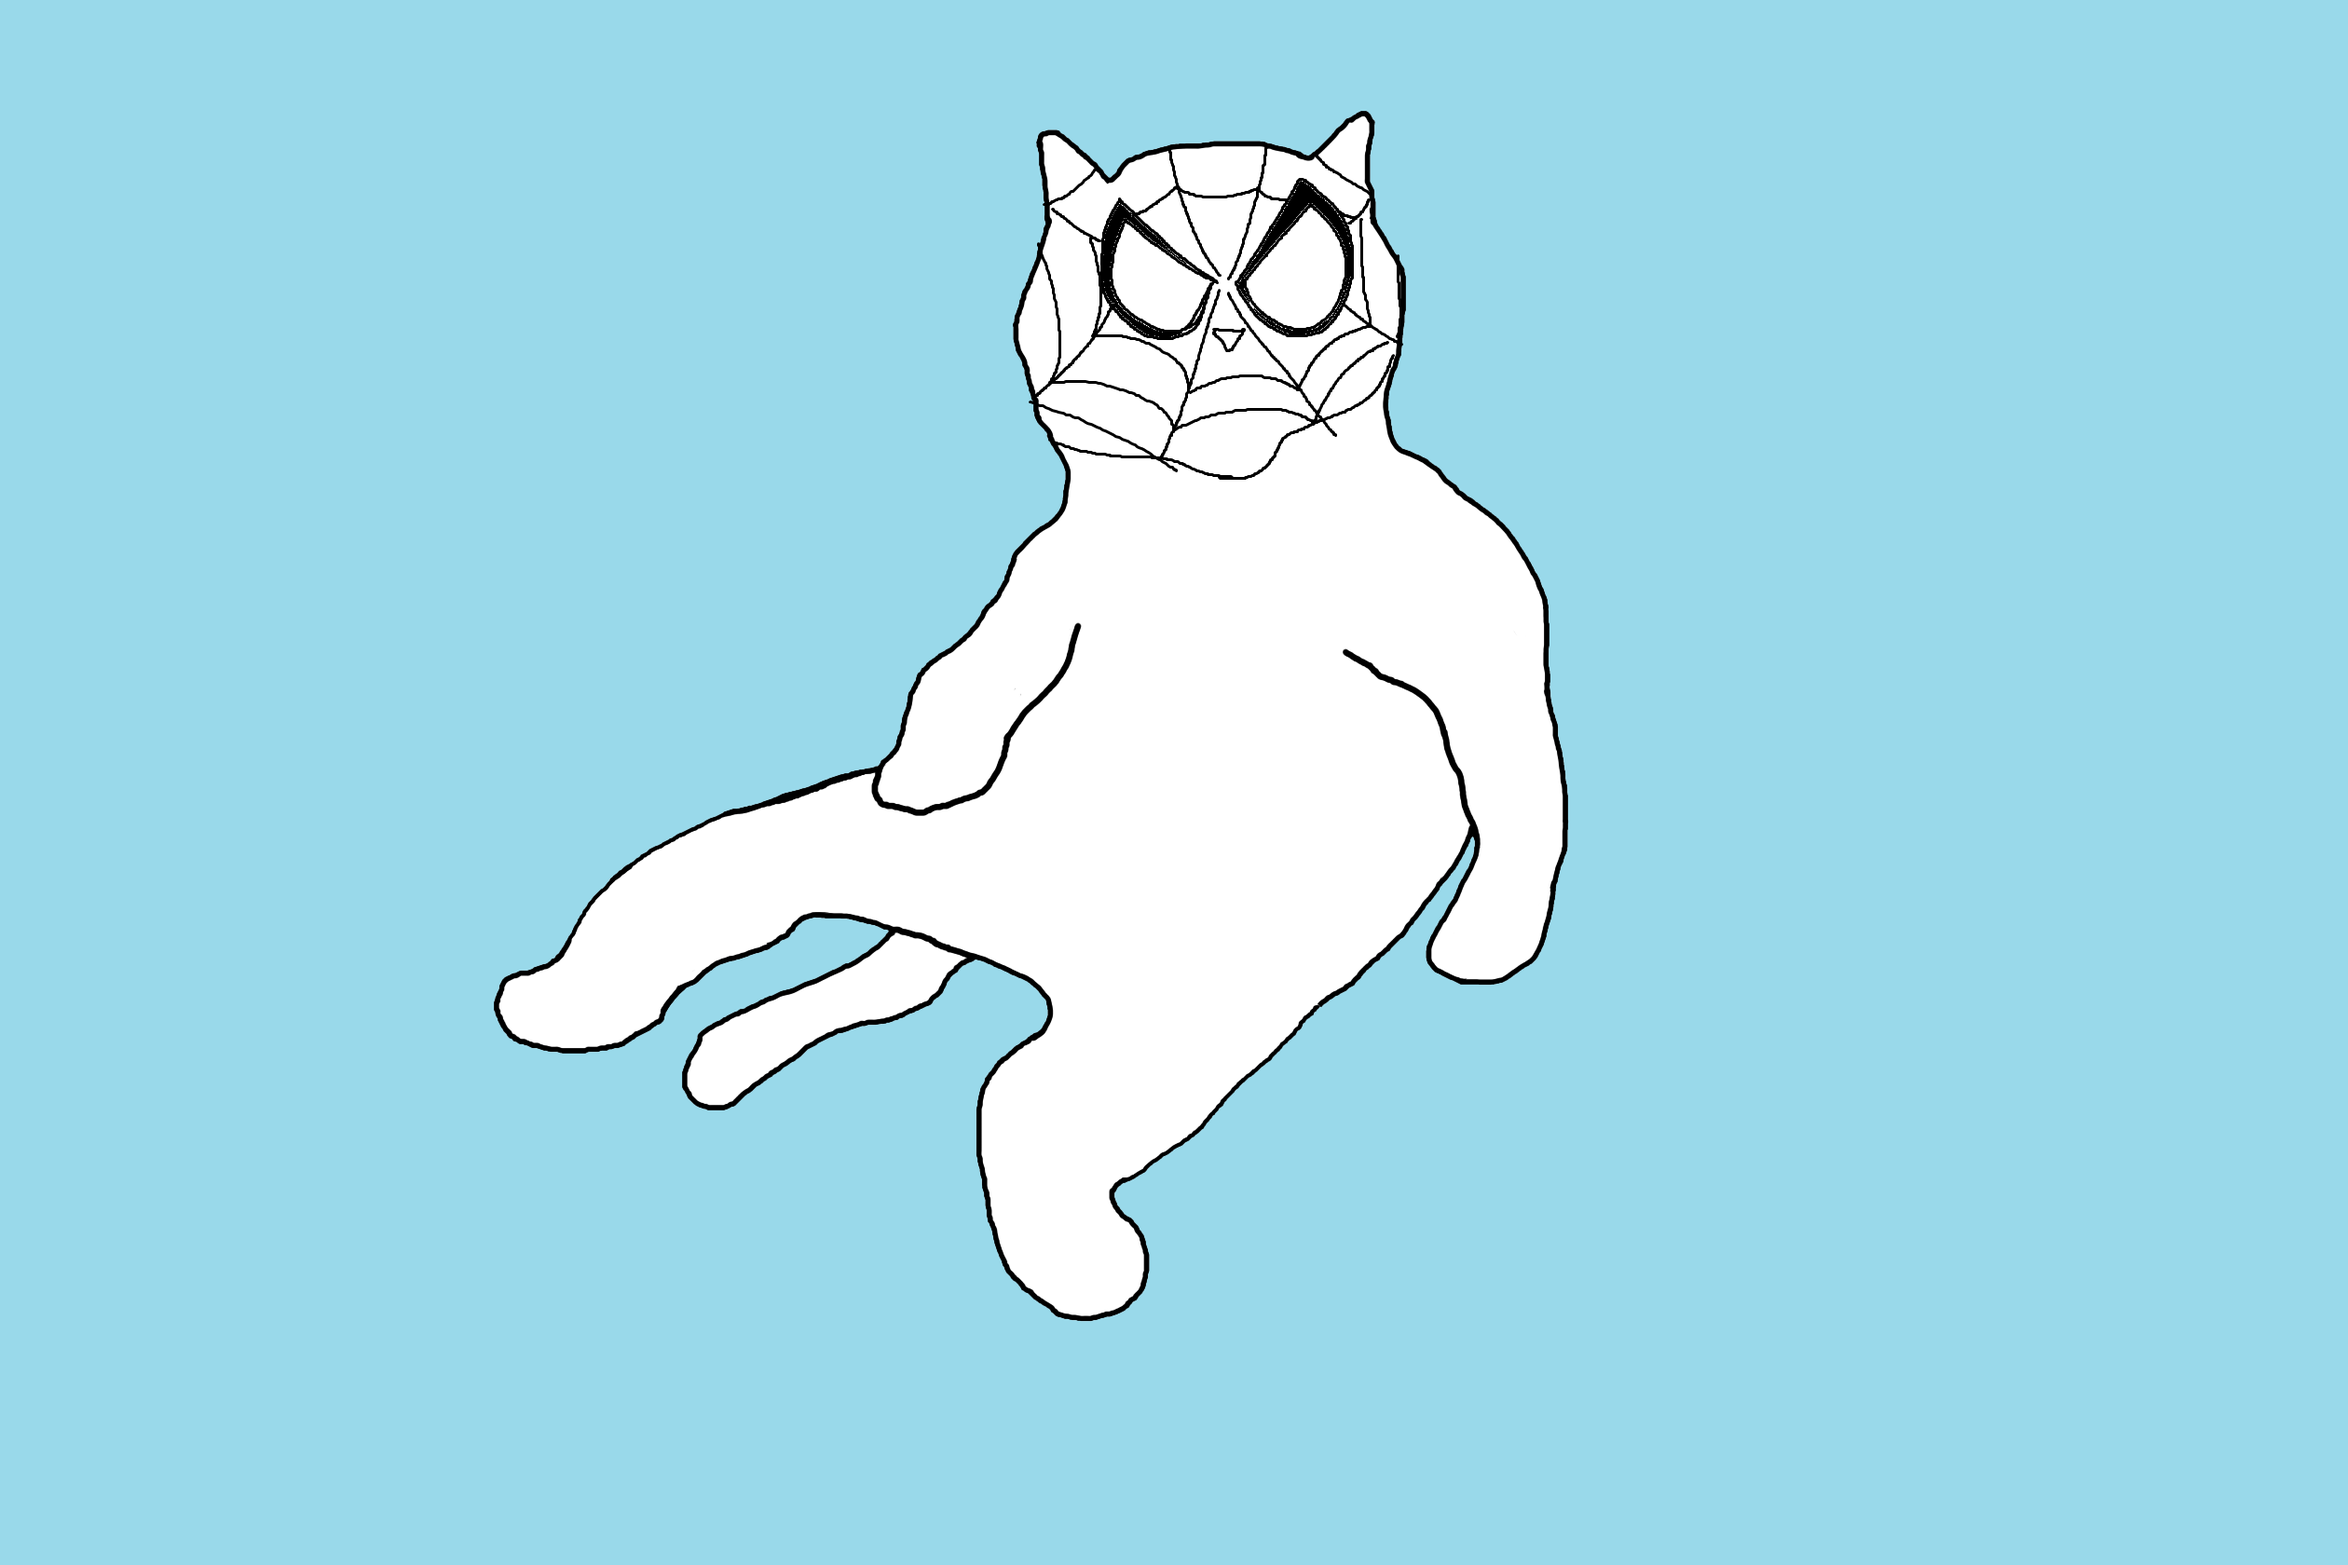
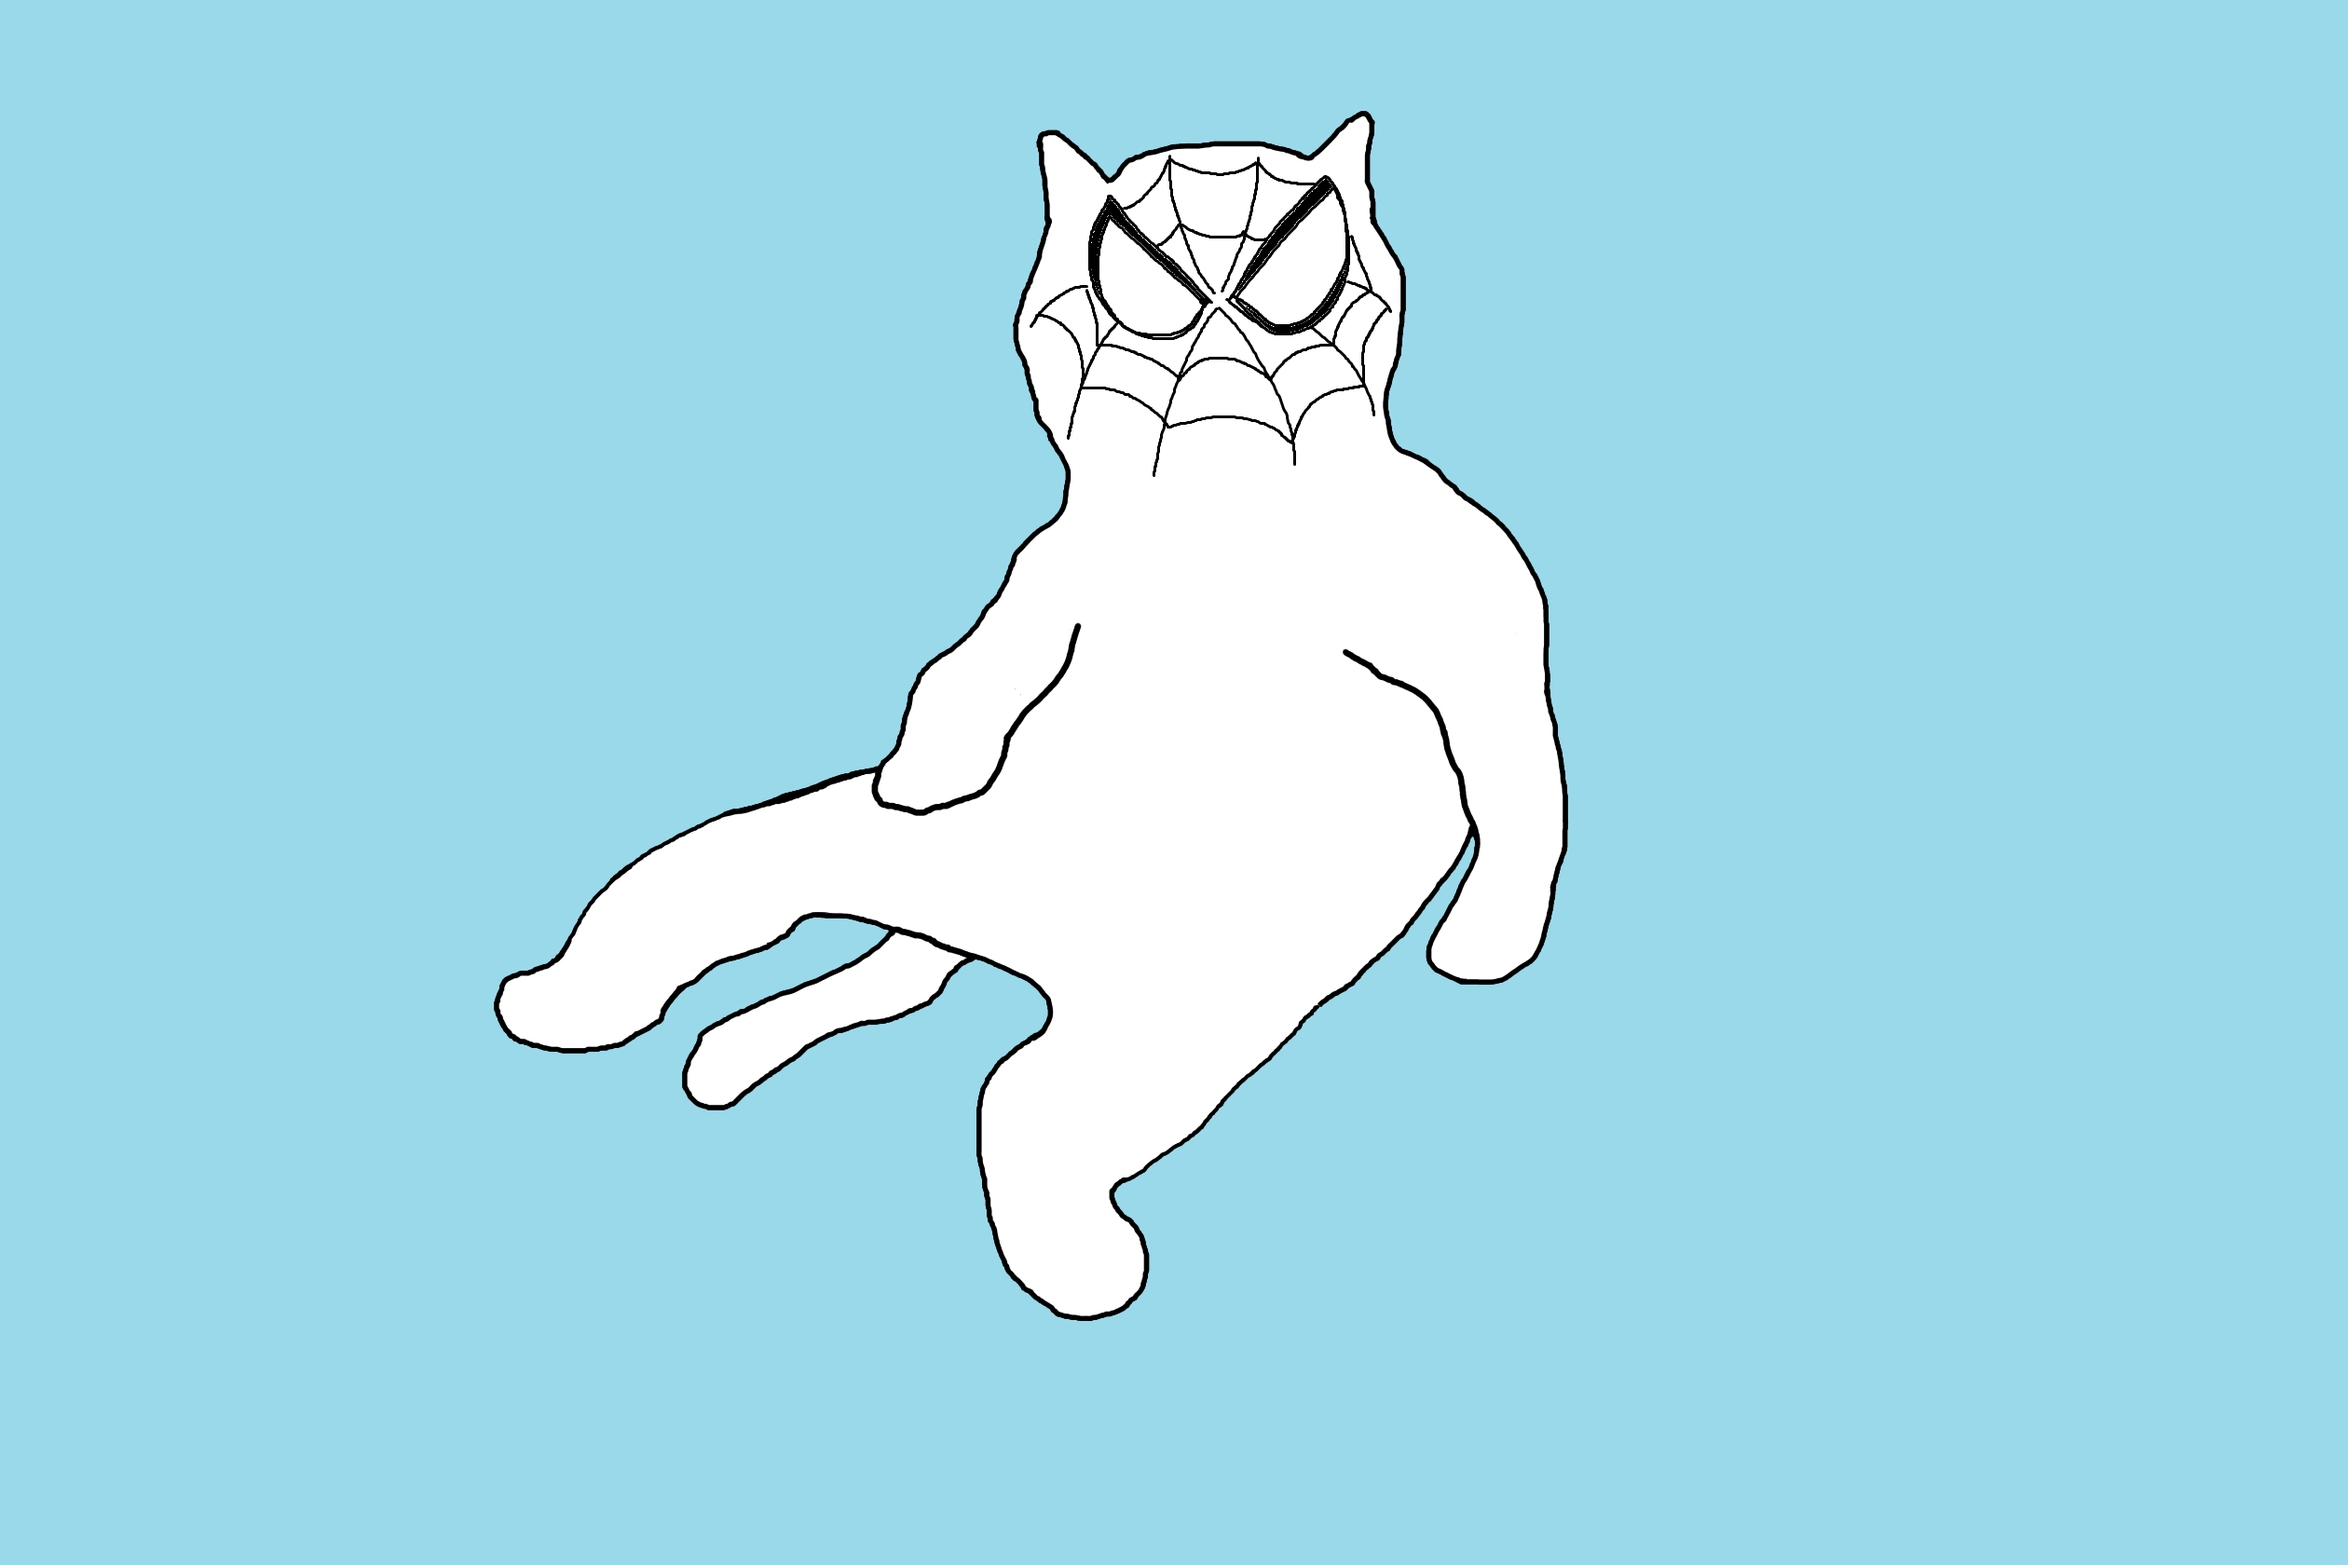
revert changes in readme and converted cat png

Changed region(s): [[0.4333, 0.0929, 0.5881, 0.3095]]

diff --git a/README.md b/README.md
@@ -1,84 +1,18 @@
 # Cat.
 
-🐱 Contributing Guide – Add Your Own Cat!
-
-Thank you for your interest in contributing to this project!
-Follow the steps below to add your own custom sitting or standing cat drawing.
-
-✅ 1. Fork the Repository
-
-Click the Fork button on the top-right of this repo to create your own copy.
-
-✅ 2. Choose a Cat Template
-
-Inside the cat_templates/ folder, you’ll find two base templates:
-
-cat_sitting_template.png
-
-cat_standing_template.png
-
-Copy the one you want to draw on.
-
-✅ 3. Open the Template in Microsoft Paint
-
-Use Microsoft Paint (recommended for consistency).
-
-🎨 4. Drawing Rules
-
-To keep all cats stylistically consistent:
-
-✔ Use only the Brush tool
-
-✔ Color: Black (#000000)
-
-✔ Draw ONLY within the face region
-
-✔ Do NOT draw outside the cat outline
-
-✔ A mouse or touchpad works best
-
-✔ Keep it simple and clean!
-
-📁 5. Save Your Drawing
-
-Rename your file using this format:
-
-For sitting cats:
-cat_sitting_<description>.png
-
-For standing cats:
-cat_standing_<description>.png
-
-Examples:
-
-cat_sitting_smiley.png
-
-cat_standing_angry_eyes.png
-
-📂 6. Add the File to the Correct Folder
-
-Place your finished drawing inside:
-
-Sitting cats → cats/
-
-Standing cats → cats_2/
-
-🚀 7. Create a Pull Request
-
-Commit your changes and open a Pull Request.
-
-Make sure your PR includes:
-
-Your new cat(s)
-
-A short description of what you drew
-
-We’ll review and merge it soon!
-
-💛 Thank You!
-
-Your contribution helps grow our adorable open-source cat collection 🐾
-Have fun and happy drawing!
+#### How to contribute:
+1. Create a copy of `cat_sitting_template.png` or `cat_standing_template.png` in the `cat_templates` folder.
+2. Open the file in *Microsoft Paint*.
+3. Edit the image, following these guidelines:
+   - Only use the `Brush` tool
+   - Use **Black** (`#000000`)
+   - Only draw within the facial region
+   - Avoid exceeding the outline of the template
+   - A mouse or touchpad is recommended
+4. Rename the file to `cat_sitting_XXXXXXXX.png` or `cat_standing_XXXXXXXX.png`, replacing `XXXXXXXX` with something that describes what you have drawn and place it in the appropriate folder.
+5. Raise a pull request with your newly drawn sitting/standing cat(s).
+   - Sitting cats should be added to the `cats/` folder
+   - Standing cats should be added to the `cats_2/` folder
   
 #### Cat Web Editor (WIP)
 
